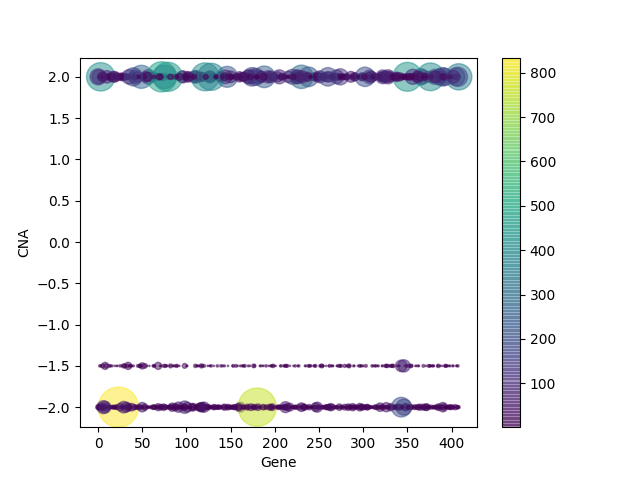
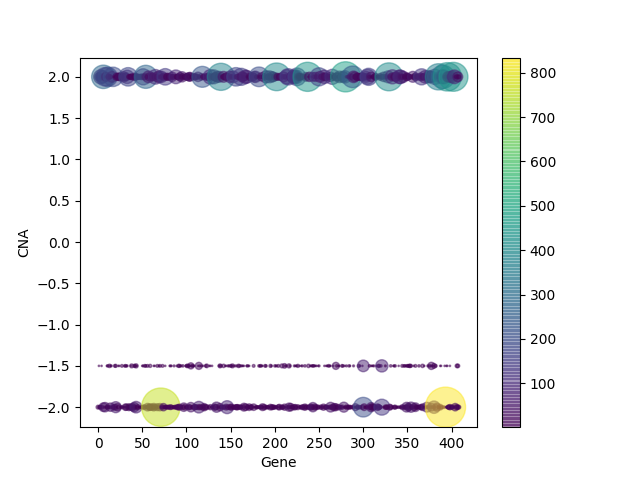
bug fixed; constant plot

Changed region(s): [[0.1562, 0.75, 0.75, 0.9062], [0.125, 0.125, 0.75, 0.2188]]

diff --git a/drawCNAData.py b/drawCNAData.py
@@ -19,7 +19,8 @@ x = list()
 y = list()
 color = list()
 
-name = list(ans.keys()).sort()
+name = list(ans.keys())
+name.sort()
 
 for val in name: 
     x.append(val[0])
